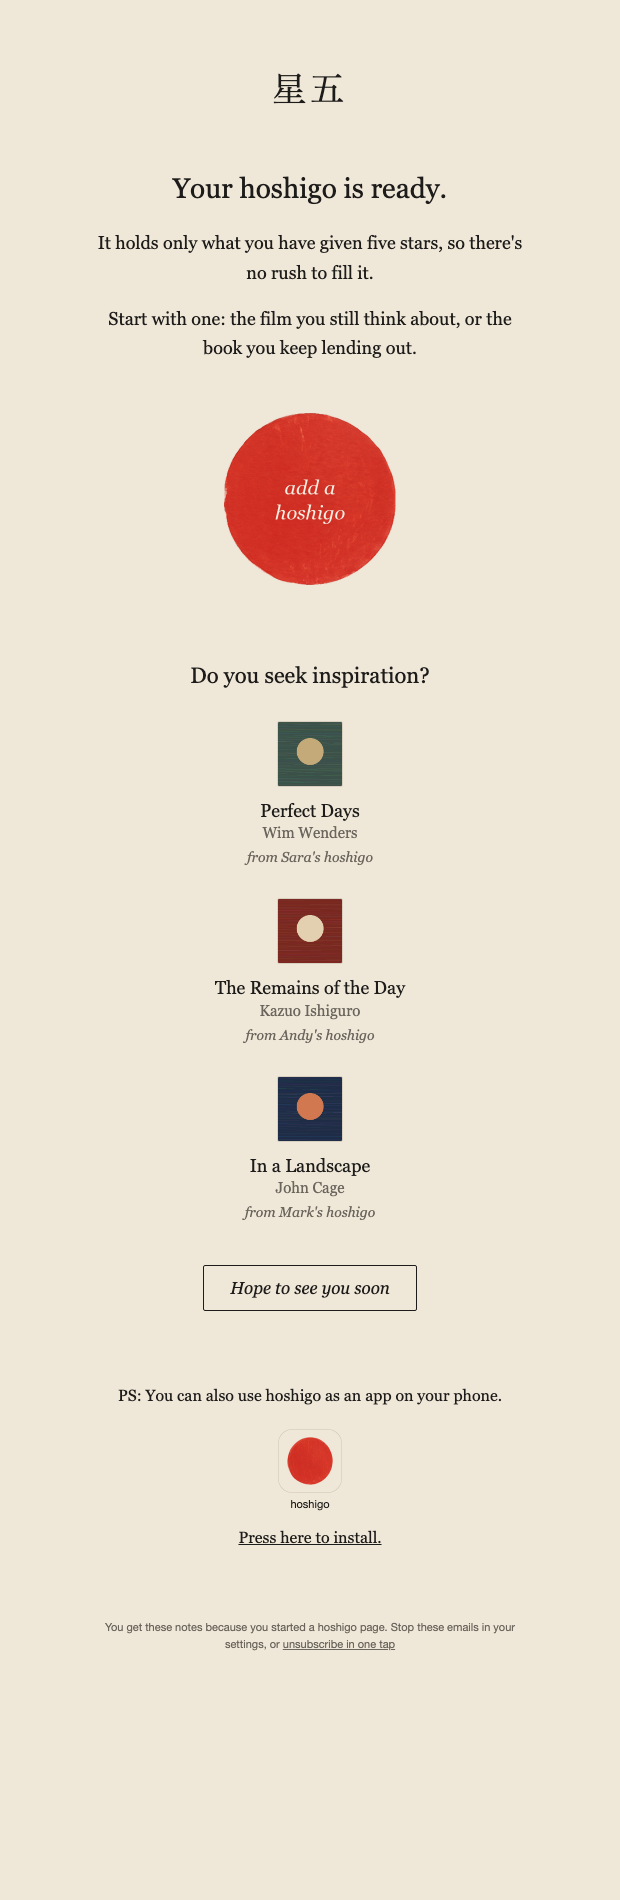
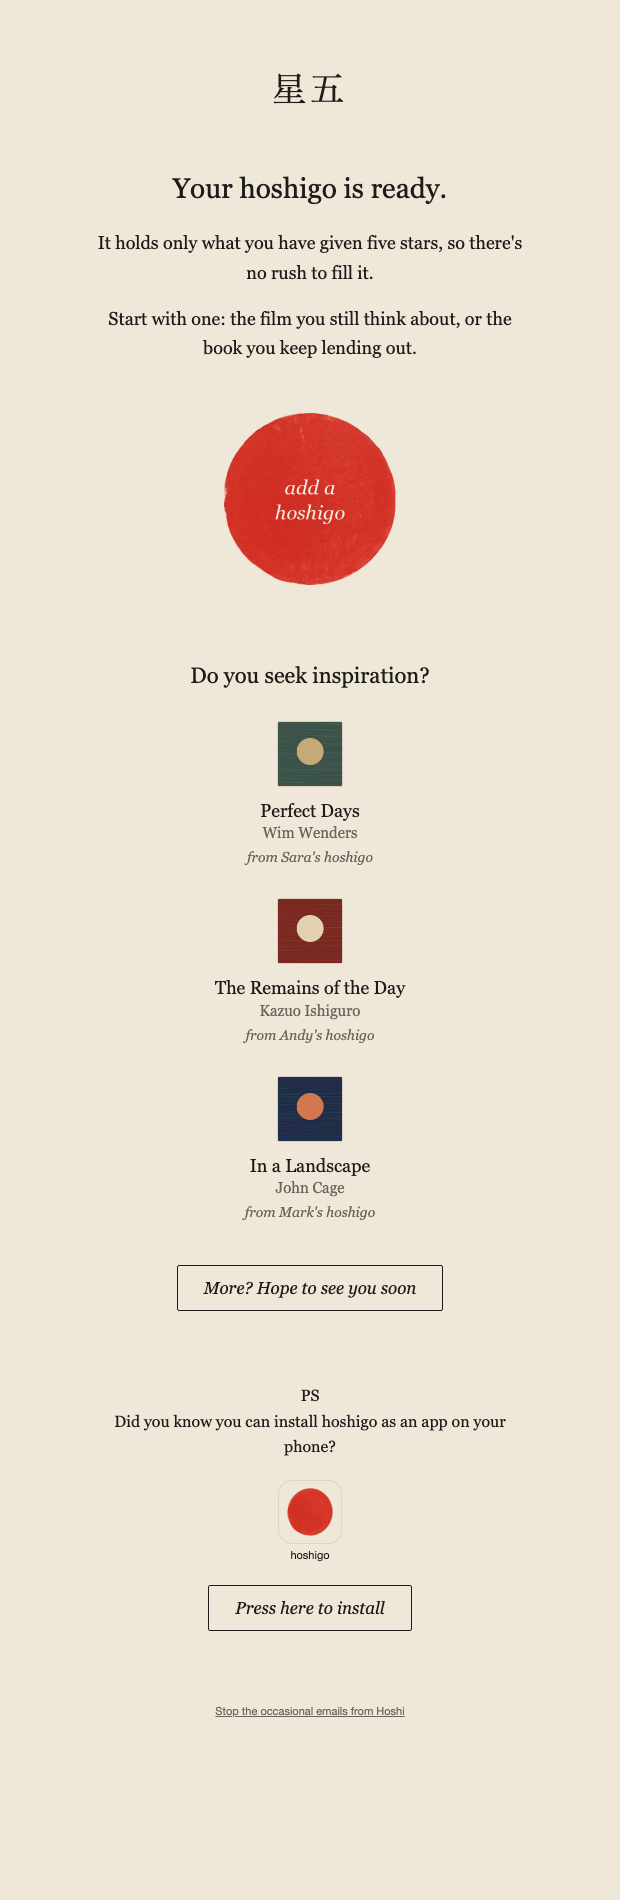
Welcome copy: hoshigo says hello, More? Hope to see you soon, PS with an install button

diff --git a/docs/design/email-welcome.html b/docs/design/email-welcome.html
@@ -19,11 +19,11 @@
 <tr><td align="center" style="padding:0 0 22px;"><div style="font-family:'Newsreader',Georgia,'Times New Roman',Times,serif; font-size:28px; line-height:1.3; color:#1d1c1a;">Your hoshigo is ready.</div></td></tr>
 <tr><td align="center" style="padding:0 0 16px;"><div style="font-family:'Newsreader',Georgia,'Times New Roman',Times,serif; font-size:18px; line-height:1.65; color:#1d1c1a; max-width:440px;">It holds only what you have given five stars, so there&#39;s no rush to fill it.</div></td></tr>
 <tr><td align="center" style="padding:0 0 16px;"><div style="font-family:'Newsreader',Georgia,'Times New Roman',Times,serif; font-size:18px; line-height:1.65; color:#1d1c1a; max-width:440px;">Start with one: the film you still think about, or the book you keep lending out.</div></td></tr>
-<tr><td align="center" style="padding:30px 0 8px;"><a href="../../public/add" style="text-decoration:none;"><img src="../../public/email/add-a-hoshigo.png" width="180" height="180" alt="add a hoshigo" style="display:block; width:180px; height:180px; border:0; font-family:'Newsreader',Georgia,'Times New Roman',Times,serif; font-size:18px; color:#d8321f;"></a></td></tr>
+<tr><td align="center" style="padding:30px 0 8px;"><a href="../../public/add" style="text-decoration:none;"><img src="https://www.hoshigo.cc/email/add-a-hoshigo.png" width="180" height="180" alt="add a hoshigo" style="display:block; width:180px; height:180px; border:0; font-family:'Newsreader',Georgia,'Times New Roman',Times,serif; font-size:18px; color:#d8321f;"></a></td></tr>
 <tr><td align="center" style="padding:64px 0 30px;"><div style="font-family:'Newsreader',Georgia,'Times New Roman',Times,serif; font-size:22px; line-height:1.35; color:#1d1c1a;">Do you seek inspiration?</div></td></tr>
 <tr><td align="center"><table role="presentation" width="100%" cellpadding="0" cellspacing="0"><tr><td align="center" style="padding:0 0 30px;">
   <a href="../../public/sara" style="text-decoration:none; color:#1d1c1a;">
-    <img src="../design/email-covers/cover-1.png" width="64" height="64" alt="Perfect Days" style="display:block; margin:0 auto; width:64px; height:64px; object-fit:cover; border:1px solid #d9cfbf; border-radius:2px; background-color:#f6f0e4;">
+    <img src="../design/email-covers/cover-1.png" width="64" height="64" alt="Cover of Perfect Days" style="display:block; margin:0 auto; width:64px; height:64px; object-fit:cover; border:1px solid #d9cfbf; border-radius:2px; background-color:#f6f0e4; font-family:'Newsreader',Georgia,'Times New Roman',Times,serif; font-size:9px; line-height:1.2; font-style:italic; color:#6b665d; overflow:hidden;">
     <div style="font-family:'Newsreader',Georgia,'Times New Roman',Times,serif; font-size:18px; line-height:1.3; color:#1d1c1a; padding-top:12px;">Perfect Days</div>
     <div style="font-family:'Newsreader',Georgia,'Times New Roman',Times,serif; font-size:15px; line-height:1.4; color:#6b665d;">Wim Wenders</div>
     <div style="font-family:'Newsreader',Georgia,'Times New Roman',Times,serif; font-size:14px; line-height:1.5; font-style:italic; color:#6b665d; padding-top:4px;">from Sara&#39;s hoshigo</div>
@@ -31,7 +31,7 @@
 </td></tr>
 <tr><td align="center" style="padding:0 0 30px;">
   <a href="../../public/andymaarten" style="text-decoration:none; color:#1d1c1a;">
-    <img src="../design/email-covers/cover-2.png" width="64" height="64" alt="The Remains of the Day" style="display:block; margin:0 auto; width:64px; height:64px; object-fit:cover; border:1px solid #d9cfbf; border-radius:2px; background-color:#f6f0e4;">
+    <img src="../design/email-covers/cover-2.png" width="64" height="64" alt="Cover of The Remains of the Day" style="display:block; margin:0 auto; width:64px; height:64px; object-fit:cover; border:1px solid #d9cfbf; border-radius:2px; background-color:#f6f0e4; font-family:'Newsreader',Georgia,'Times New Roman',Times,serif; font-size:9px; line-height:1.2; font-style:italic; color:#6b665d; overflow:hidden;">
     <div style="font-family:'Newsreader',Georgia,'Times New Roman',Times,serif; font-size:18px; line-height:1.3; color:#1d1c1a; padding-top:12px;">The Remains of the Day</div>
     <div style="font-family:'Newsreader',Georgia,'Times New Roman',Times,serif; font-size:15px; line-height:1.4; color:#6b665d;">Kazuo Ishiguro</div>
     <div style="font-family:'Newsreader',Georgia,'Times New Roman',Times,serif; font-size:14px; line-height:1.5; font-style:italic; color:#6b665d; padding-top:4px;">from Andy&#39;s hoshigo</div>
@@ -39,20 +39,20 @@
 </td></tr>
 <tr><td align="center" style="padding:0 0 30px;">
   <a href="../../public/mark" style="text-decoration:none; color:#1d1c1a;">
-    <img src="../design/email-covers/cover-3.png" width="64" height="64" alt="In a Landscape" style="display:block; margin:0 auto; width:64px; height:64px; object-fit:cover; border:1px solid #d9cfbf; border-radius:2px; background-color:#f6f0e4;">
+    <img src="../design/email-covers/cover-3.png" width="64" height="64" alt="Cover of In a Landscape" style="display:block; margin:0 auto; width:64px; height:64px; object-fit:cover; border:1px solid #d9cfbf; border-radius:2px; background-color:#f6f0e4; font-family:'Newsreader',Georgia,'Times New Roman',Times,serif; font-size:9px; line-height:1.2; font-style:italic; color:#6b665d; overflow:hidden;">
     <div style="font-family:'Newsreader',Georgia,'Times New Roman',Times,serif; font-size:18px; line-height:1.3; color:#1d1c1a; padding-top:12px;">In a Landscape</div>
     <div style="font-family:'Newsreader',Georgia,'Times New Roman',Times,serif; font-size:15px; line-height:1.4; color:#6b665d;">John Cage</div>
     <div style="font-family:'Newsreader',Georgia,'Times New Roman',Times,serif; font-size:14px; line-height:1.5; font-style:italic; color:#6b665d; padding-top:4px;">from Mark&#39;s hoshigo</div>
   </a>
 </td></tr></table></td></tr>
-<tr><td align="center" style="padding:12px 0 0;"><table role="presentation" cellpadding="0" cellspacing="0"><tr><td style="border:1px solid #1d1c1a; border-radius:2px;"><a href="../../public" style="display:inline-block; padding:12px 26px; font-family:'Newsreader',Georgia,'Times New Roman',Times,serif; font-size:17px; font-style:italic; color:#1d1c1a; text-decoration:none;">Hope to see you soon</a></td></tr></table></td></tr>
-<tr><td align="center" style="padding:72px 0 0;"><div style="font-family:'Newsreader',Georgia,'Times New Roman',Times,serif; font-size:16px; line-height:1.6; color:#1d1c1a; max-width:400px;">PS: You can also use hoshigo as an app on your phone.</div>
+<tr><td align="center" style="padding:12px 0 0;"><table role="presentation" align="center" cellpadding="0" cellspacing="0" style="margin:0 auto;"><tr><td style="border:1px solid #1d1c1a; border-radius:2px;"><a href="../../public" style="display:inline-block; padding:12px 26px; font-family:'Newsreader',Georgia,'Times New Roman',Times,serif; font-size:17px; font-style:italic; color:#1d1c1a; text-decoration:none;">More? Hope to see you soon</a></td></tr></table></td></tr>
+<tr><td align="center" style="padding:72px 0 0;"><div style="font-family:'Newsreader',Georgia,'Times New Roman',Times,serif; font-size:16px; line-height:1.6; color:#1d1c1a; max-width:400px;">PS<br>Did you know you can install hoshigo as an app on your phone?</div>
 <a href="../../public/app" style="display:inline-block; text-decoration:none; padding-top:20px;">
-  <img src="../../public/email/app-icon.png" width="64" height="64" alt="hoshigo app icon" style="display:block; margin:0 auto; width:64px; height:64px; border:0; border-radius:14px;">
+  <img src="https://www.hoshigo.cc/email/app-icon.png" width="64" height="64" alt="hoshigo app icon" style="display:block; margin:0 auto; width:64px; height:64px; border:0; border-radius:14px;">
   <div style="font-family:-apple-system,'Helvetica Neue',Helvetica,Arial,sans-serif; font-size:11px; line-height:1; color:#1d1c1a; padding-top:6px;">hoshigo</div>
 </a>
-<div style="padding-top:16px;"><a href="../../public/app" style="font-family:'Newsreader',Georgia,'Times New Roman',Times,serif; font-size:16px; color:#1d1c1a; text-decoration:underline;">Press here to install.</a></div></td></tr>
-<tr><td align="center" style="padding:72px 0 0;"><div style="font-family:-apple-system,'Helvetica Neue',Helvetica,Arial,sans-serif; font-size:11px; line-height:1.6; color:#6b665d; max-width:420px;">You get these notes because you started a hoshigo page. Stop these emails in your settings, or <a href="https://hoshigo.cc/api/unsubscribe?t=sample" style="color:#6b665d; text-decoration:underline;">unsubscribe in one tap</a></div></td></tr>
+<div style="padding-top:22px;"><table role="presentation" align="center" cellpadding="0" cellspacing="0" style="margin:0 auto;"><tr><td style="border:1px solid #1d1c1a; border-radius:2px;"><a href="../../public/app" style="display:inline-block; padding:12px 26px; font-family:'Newsreader',Georgia,'Times New Roman',Times,serif; font-size:17px; font-style:italic; color:#1d1c1a; text-decoration:none;">Press here to install</a></td></tr></table></div></td></tr>
+<tr><td align="center" style="padding:72px 0 0;"><div style="font-family:-apple-system,'Helvetica Neue',Helvetica,Arial,sans-serif; font-size:11px; line-height:1.6; color:#6b665d; max-width:420px;"> <a href="https://hoshigo.cc/api/unsubscribe?t=sample" style="color:#6b665d; text-decoration:underline;">Stop the occasional emails from Hoshi</a></div></td></tr>
 </table>
 <!--[if mso]></td></tr></table><![endif]-->
 </td></tr>

diff --git a/docs/design/email-day-21.html b/docs/design/email-day-21.html
@@ -25,7 +25,7 @@
 <tr><td align="center" style="padding:64px 0 30px;"><div style="font-family:'Newsreader',Georgia,'Times New Roman',Times,serif; font-size:22px; line-height:1.35; color:#1d1c1a;">from the community</div><div style="font-family:'Newsreader',Georgia,'Times New Roman',Times,serif; font-size:16px; line-height:1.5; color:#6b665d; padding-top:6px;">A few things other people would give five stars this week.</div></td></tr>
 <tr><td align="center"><table role="presentation" width="100%" cellpadding="0" cellspacing="0"><tr><td align="center" style="padding:0 0 30px;">
   <a href="../../public/sara" style="text-decoration:none; color:#1d1c1a;">
-    <img src="../design/email-covers/cover-1.png" width="64" height="64" alt="Perfect Days" style="display:block; margin:0 auto; width:64px; height:64px; object-fit:cover; border:1px solid #d9cfbf; border-radius:2px; background-color:#f6f0e4;">
+    <img src="../design/email-covers/cover-1.png" width="64" height="64" alt="Cover of Perfect Days" style="display:block; margin:0 auto; width:64px; height:64px; object-fit:cover; border:1px solid #d9cfbf; border-radius:2px; background-color:#f6f0e4; font-family:'Newsreader',Georgia,'Times New Roman',Times,serif; font-size:9px; line-height:1.2; font-style:italic; color:#6b665d; overflow:hidden;">
     <div style="font-family:'Newsreader',Georgia,'Times New Roman',Times,serif; font-size:18px; line-height:1.3; color:#1d1c1a; padding-top:12px;">Perfect Days</div>
     <div style="font-family:'Newsreader',Georgia,'Times New Roman',Times,serif; font-size:15px; line-height:1.4; color:#6b665d;">Wim Wenders</div>
     <div style="font-family:'Newsreader',Georgia,'Times New Roman',Times,serif; font-size:14px; line-height:1.5; font-style:italic; color:#6b665d; padding-top:4px;">from Sara&#39;s hoshigo</div>
@@ -33,7 +33,7 @@
 </td></tr>
 <tr><td align="center" style="padding:0 0 30px;">
   <a href="../../public/andymaarten" style="text-decoration:none; color:#1d1c1a;">
-    <img src="../design/email-covers/cover-2.png" width="64" height="64" alt="The Remains of the Day" style="display:block; margin:0 auto; width:64px; height:64px; object-fit:cover; border:1px solid #d9cfbf; border-radius:2px; background-color:#f6f0e4;">
+    <img src="../design/email-covers/cover-2.png" width="64" height="64" alt="Cover of The Remains of the Day" style="display:block; margin:0 auto; width:64px; height:64px; object-fit:cover; border:1px solid #d9cfbf; border-radius:2px; background-color:#f6f0e4; font-family:'Newsreader',Georgia,'Times New Roman',Times,serif; font-size:9px; line-height:1.2; font-style:italic; color:#6b665d; overflow:hidden;">
     <div style="font-family:'Newsreader',Georgia,'Times New Roman',Times,serif; font-size:18px; line-height:1.3; color:#1d1c1a; padding-top:12px;">The Remains of the Day</div>
     <div style="font-family:'Newsreader',Georgia,'Times New Roman',Times,serif; font-size:15px; line-height:1.4; color:#6b665d;">Kazuo Ishiguro</div>
     <div style="font-family:'Newsreader',Georgia,'Times New Roman',Times,serif; font-size:14px; line-height:1.5; font-style:italic; color:#6b665d; padding-top:4px;">from Andy&#39;s hoshigo</div>
@@ -41,14 +41,14 @@
 </td></tr>
 <tr><td align="center" style="padding:0 0 30px;">
   <a href="../../public/mark" style="text-decoration:none; color:#1d1c1a;">
-    <img src="../design/email-covers/cover-3.png" width="64" height="64" alt="In a Landscape" style="display:block; margin:0 auto; width:64px; height:64px; object-fit:cover; border:1px solid #d9cfbf; border-radius:2px; background-color:#f6f0e4;">
+    <img src="../design/email-covers/cover-3.png" width="64" height="64" alt="Cover of In a Landscape" style="display:block; margin:0 auto; width:64px; height:64px; object-fit:cover; border:1px solid #d9cfbf; border-radius:2px; background-color:#f6f0e4; font-family:'Newsreader',Georgia,'Times New Roman',Times,serif; font-size:9px; line-height:1.2; font-style:italic; color:#6b665d; overflow:hidden;">
     <div style="font-family:'Newsreader',Georgia,'Times New Roman',Times,serif; font-size:18px; line-height:1.3; color:#1d1c1a; padding-top:12px;">In a Landscape</div>
     <div style="font-family:'Newsreader',Georgia,'Times New Roman',Times,serif; font-size:15px; line-height:1.4; color:#6b665d;">John Cage</div>
     <div style="font-family:'Newsreader',Georgia,'Times New Roman',Times,serif; font-size:14px; line-height:1.5; font-style:italic; color:#6b665d; padding-top:4px;">from Mark&#39;s hoshigo</div>
   </a>
 </td></tr></table></td></tr>
 <tr><td align="center" style="padding:30px 0 0;"><div style="font-family:'Newsreader',Georgia,'Times New Roman',Times,serif; font-size:18px; font-style:italic; color:#1d1c1a;">Hoshi</div></td></tr>
-<tr><td align="center" style="padding:72px 0 0;"><div style="font-family:-apple-system,'Helvetica Neue',Helvetica,Arial,sans-serif; font-size:11px; line-height:1.6; color:#6b665d; max-width:420px;">You get these notes because you started a hoshigo page. Stop these emails in your settings, or <a href="https://hoshigo.cc/api/unsubscribe?t=sample" style="color:#6b665d; text-decoration:underline;">unsubscribe in one tap</a></div></td></tr>
+<tr><td align="center" style="padding:72px 0 0;"><div style="font-family:-apple-system,'Helvetica Neue',Helvetica,Arial,sans-serif; font-size:11px; line-height:1.6; color:#6b665d; max-width:420px;"> <a href="https://hoshigo.cc/api/unsubscribe?t=sample" style="color:#6b665d; text-decoration:underline;">Stop the occasional emails from Hoshi</a></div></td></tr>
 </table>
 <!--[if mso]></td></tr></table><![endif]-->
 </td></tr>

diff --git a/src/lib/email-layout.ts b/src/lib/email-layout.ts
@@ -78,6 +78,11 @@ function paragraphText(p: EmailParagraph) {
     .join("");
 }
 
+// the outlined, italic button: calm enough to sit twice in one email
+function quietButtonHtml(b: { label: string; href: string }) {
+  return `<table role="presentation" align="center" cellpadding="0" cellspacing="0" style="margin:0 auto;"><tr><td style="border:1px solid ${INK}; border-radius:2px;"><a href="${escapeHtml(b.href)}" style="display:inline-block; padding:12px 26px; ${SERIF} font-size:17px; font-style:italic; color:${INK}; text-decoration:none;">${escapeHtml(b.label)}</a></td></tr></table>`;
+}
+
 function pickHtml(p: EmailPick) {
   const href = escapeHtml(p.href);
   const cover = p.image
@@ -138,7 +143,7 @@ export function renderEmail(input: EmailInput): { html: string; text: string } {
   if (quietButton) {
     parts.push(
       row(
-        `<table role="presentation" cellpadding="0" cellspacing="0"><tr><td style="border:1px solid ${INK}; border-radius:2px;"><a href="${escapeHtml(quietButton.href)}" style="display:inline-block; padding:12px 26px; ${SERIF} font-size:17px; font-style:italic; color:${INK}; text-decoration:none;">${escapeHtml(quietButton.label)}</a></td></tr></table>`,
+        quietButtonHtml(quietButton),
         picks.length >= 2 ? "12px 0 0" : "36px 0 0"
       )
     );
@@ -149,12 +154,12 @@ export function renderEmail(input: EmailInput): { html: string; text: string } {
   if (ps) {
     parts.push(
       row(
-        `<div style="${SERIF} font-size:16px; line-height:1.6; color:${INK}; max-width:400px;">${escapeHtml(ps.text)}</div>
+        `<div style="${SERIF} font-size:16px; line-height:1.6; color:${INK}; max-width:400px;">${brs(ps.text)}</div>
 <a href="${escapeHtml(ps.href)}" style="display:inline-block; text-decoration:none; padding-top:20px;">
   <img src="${escapeHtml(ps.icon)}" width="64" height="64" alt="${escapeHtml(ps.iconLabel)} app icon" style="display:block; margin:0 auto; width:64px; height:64px; border:0; border-radius:14px;">
   <div style="${SANS} font-size:11px; line-height:1; color:${INK}; padding-top:6px;">${escapeHtml(ps.iconLabel)}</div>
 </a>
-<div style="padding-top:16px;"><a href="${escapeHtml(ps.href)}" style="${SERIF} font-size:16px; color:${INK}; text-decoration:underline;">${escapeHtml(ps.linkLabel)}</a></div>`,
+<div style="padding-top:22px;">${quietButtonHtml({ label: ps.linkLabel, href: ps.href })}</div>`,
         "72px 0 0"
       )
     );
@@ -209,7 +214,7 @@ ${parts.join("\n")}
       : []),
     ...(quietButton ? [`${quietButton.label}: ${quietButton.href}`, ""] : []),
     ...(signature ? [signature, ""] : []),
-    ...(ps ? [ps.text, `${ps.linkLabel} ${ps.href}`, ""] : []),
+    ...(ps ? [ps.text, `${ps.linkLabel}: ${ps.href}`, ""] : []),
     "—",
     footer,
     ...(footerLink ? [`${footerLink.label}: ${footerLink.href}`] : []),

diff --git a/docs/design/email-day-10.html b/docs/design/email-day-10.html
@@ -21,7 +21,7 @@
 <tr><td align="center" style="padding:0 0 16px;"><div style="font-family:'Newsreader',Georgia,'Times New Roman',Times,serif; font-size:18px; line-height:1.65; color:#1d1c1a; max-width:440px;">Put hoshigo on your home screen and it&#39;s one tap away when they do. Then you can add from any app, straight from the share sheet. It takes a minute to set up; I timed it.</div></td></tr>
 <tr><td align="center" style="padding:26px 0 8px;"><table role="presentation" cellpadding="0" cellspacing="0"><tr><td bgcolor="#d8321f" style="background-color:#d8321f; border-radius:2px;"><a href="../../public/app" style="display:inline-block; padding:14px 30px; font-family:-apple-system,'Helvetica Neue',Helvetica,Arial,sans-serif; font-size:15px; font-weight:700; color:#ffffff; text-decoration:none;">Put hoshigo on my phone</a></td></tr></table></td></tr>
 <tr><td align="center" style="padding:30px 0 0;"><div style="font-family:'Newsreader',Georgia,'Times New Roman',Times,serif; font-size:18px; font-style:italic; color:#1d1c1a;">Hoshi</div></td></tr>
-<tr><td align="center" style="padding:72px 0 0;"><div style="font-family:-apple-system,'Helvetica Neue',Helvetica,Arial,sans-serif; font-size:11px; line-height:1.6; color:#6b665d; max-width:420px;">You get these notes because you started a hoshigo page. Stop these emails in your settings, or <a href="https://hoshigo.cc/api/unsubscribe?t=sample" style="color:#6b665d; text-decoration:underline;">unsubscribe in one tap</a></div></td></tr>
+<tr><td align="center" style="padding:72px 0 0;"><div style="font-family:-apple-system,'Helvetica Neue',Helvetica,Arial,sans-serif; font-size:11px; line-height:1.6; color:#6b665d; max-width:420px;"> <a href="https://hoshigo.cc/api/unsubscribe?t=sample" style="color:#6b665d; text-decoration:underline;">Stop the occasional emails from Hoshi</a></div></td></tr>
 </table>
 <!--[if mso]></td></tr></table><![endif]-->
 </td></tr>

diff --git a/src/lib/welcome-copy.ts b/src/lib/welcome-copy.ts
@@ -11,7 +11,7 @@ export const WELCOME_SIGNATURE = "Hoshi";
 
 export const WELCOME_COPY: Record<WelcomeStep, { subject: string; preheader: string; heading: string; paragraphs: string[]; button: string }> = {
   1: {
-    subject: "Your hoshigo is ready",
+    subject: "hoshigo says hello",
     preheader: "It holds only what you have given five stars, so there's no rush to fill it.",
     heading: "Your hoshigo is ready.",
     paragraphs: [
@@ -44,9 +44,9 @@ export const WELCOME_COPY: Record<WelcomeStep, { subject: string; preheader: str
 };
 
 export const WELCOME_INSPIRATION = "Do you seek inspiration?";
-export const WELCOME_GOODBYE = "Hope to see you soon";
-export const WELCOME_PS = "PS: You can also use hoshigo as an app on your phone.";
-export const WELCOME_PS_LINK = "Press here to install.";
+export const WELCOME_GOODBYE = "More? Hope to see you soon";
+export const WELCOME_PS = "PS\nDid you know you can install hoshigo as an app on your phone?";
+export const WELCOME_PS_LINK = "Press here to install";
 
 export const COMMUNITY_HEADING = "from the community";
 export const COMMUNITY_INTRO = "A few things other people would give five stars this week.";
